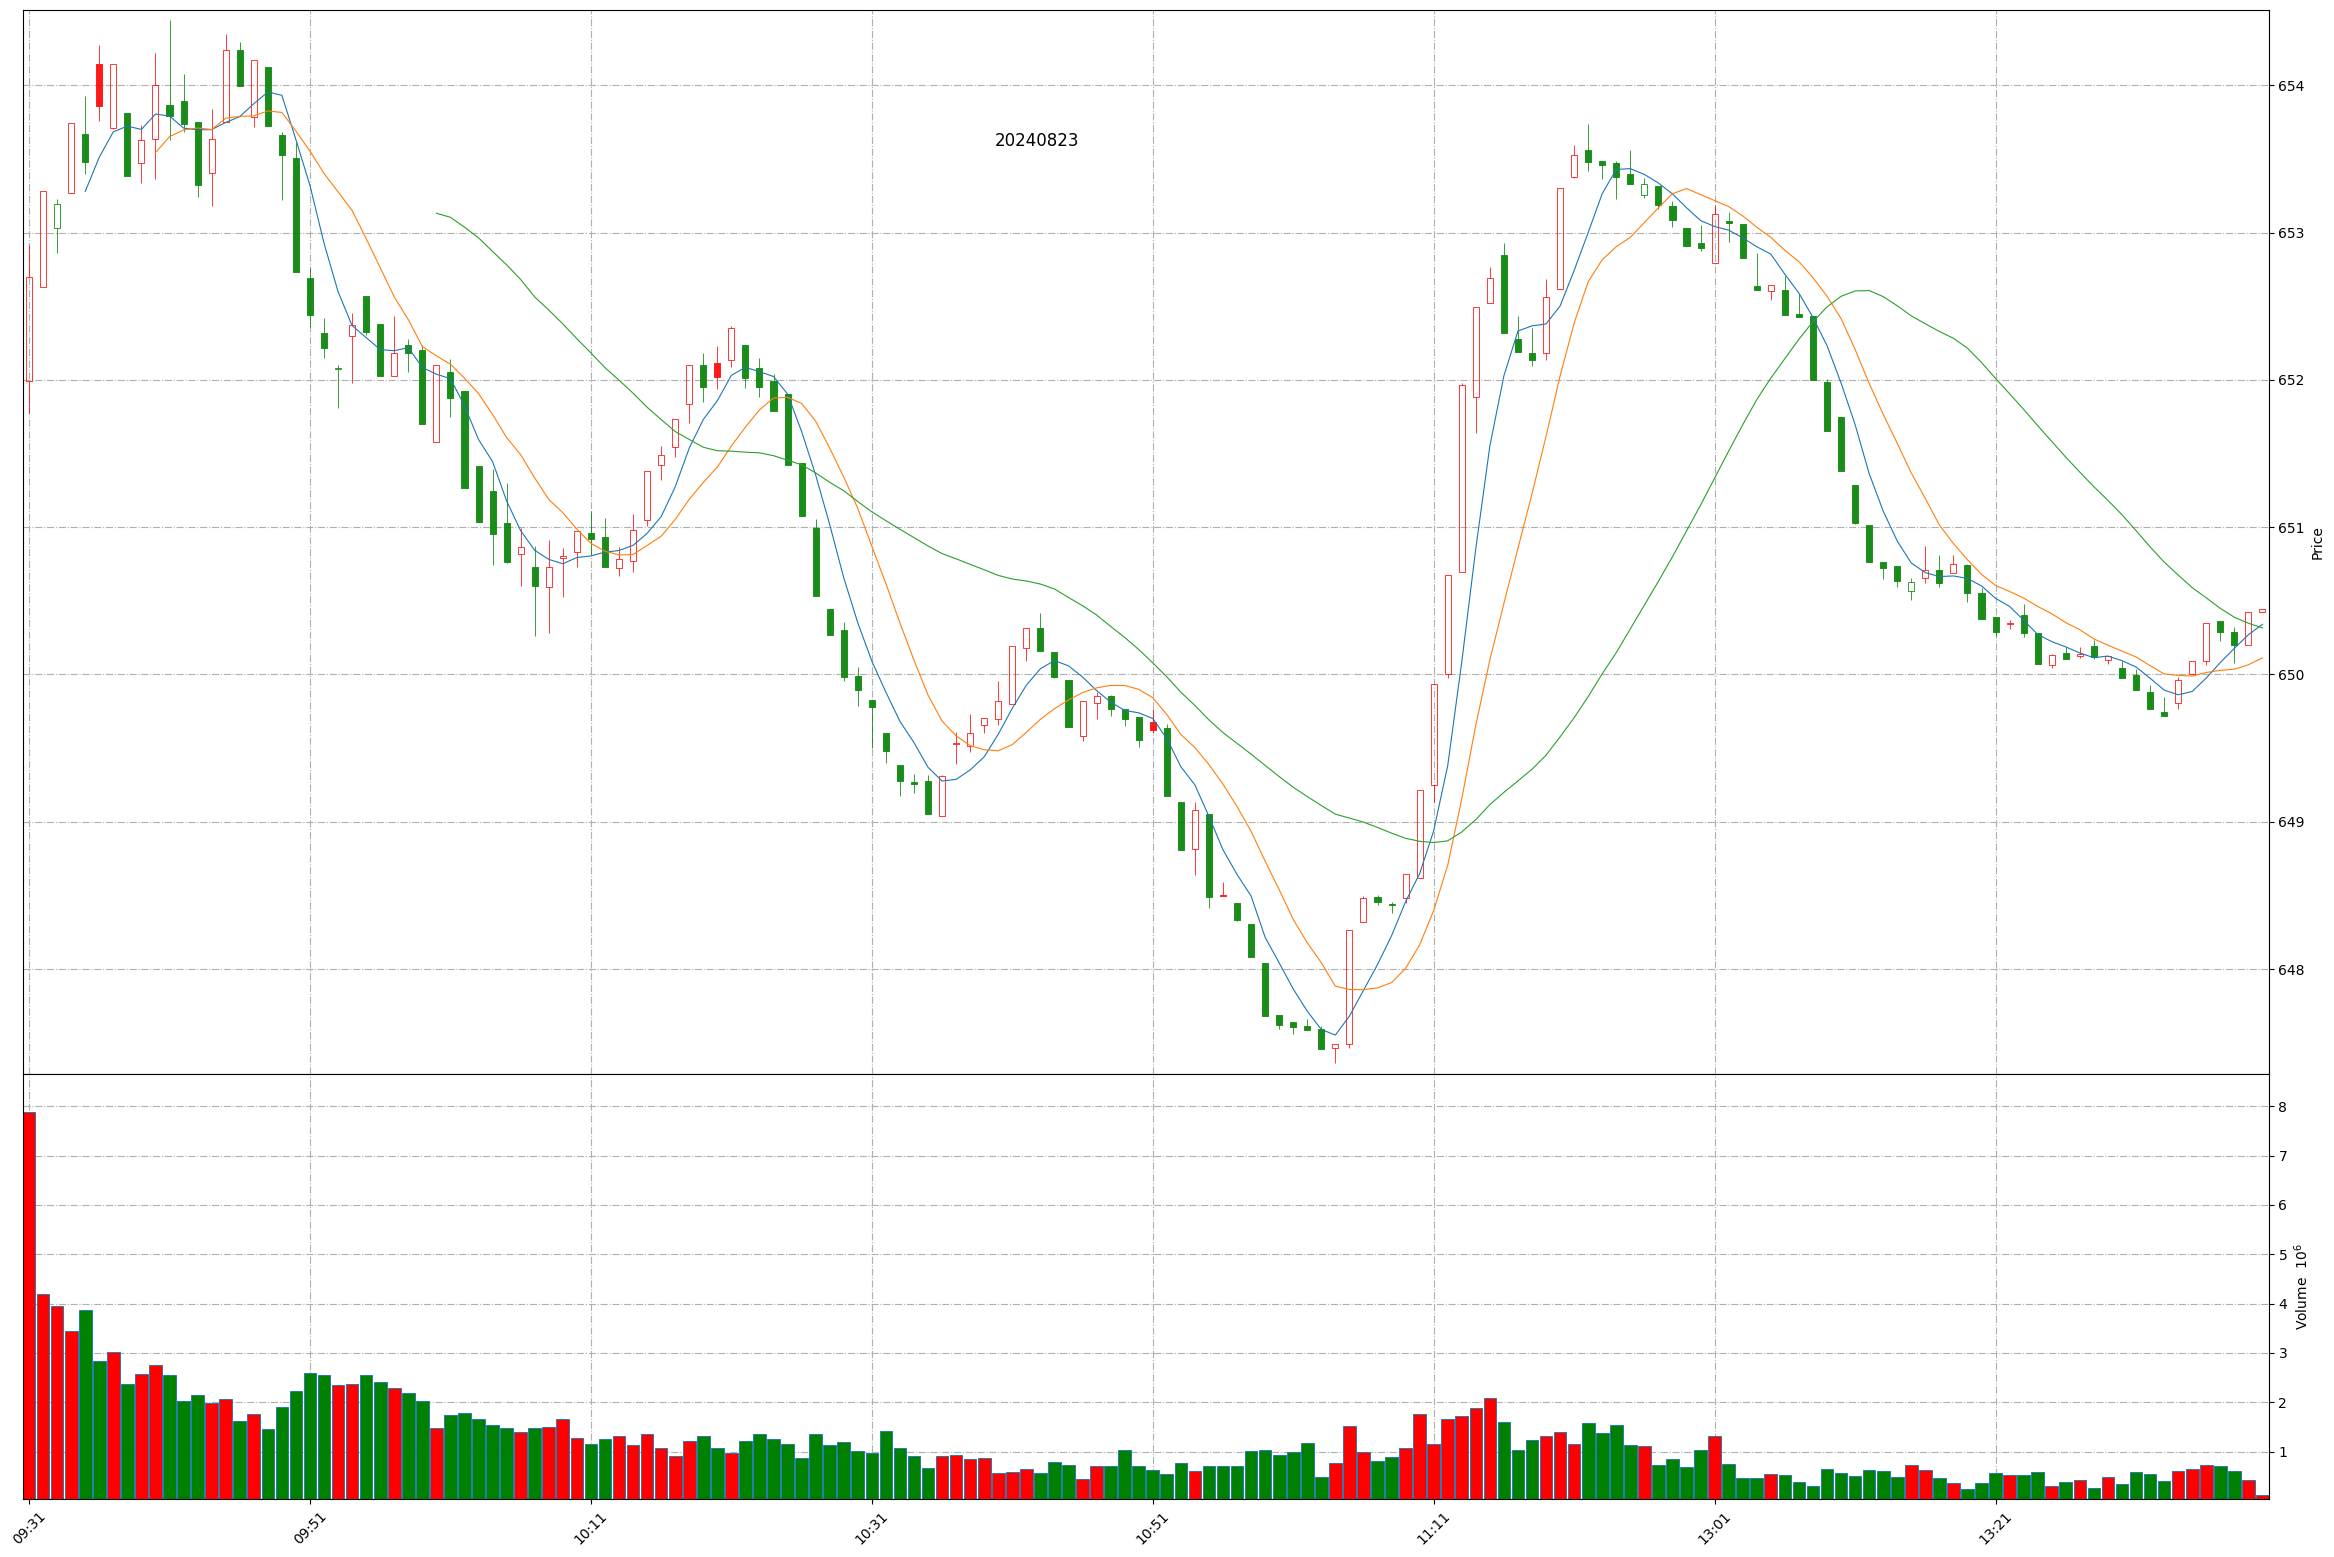
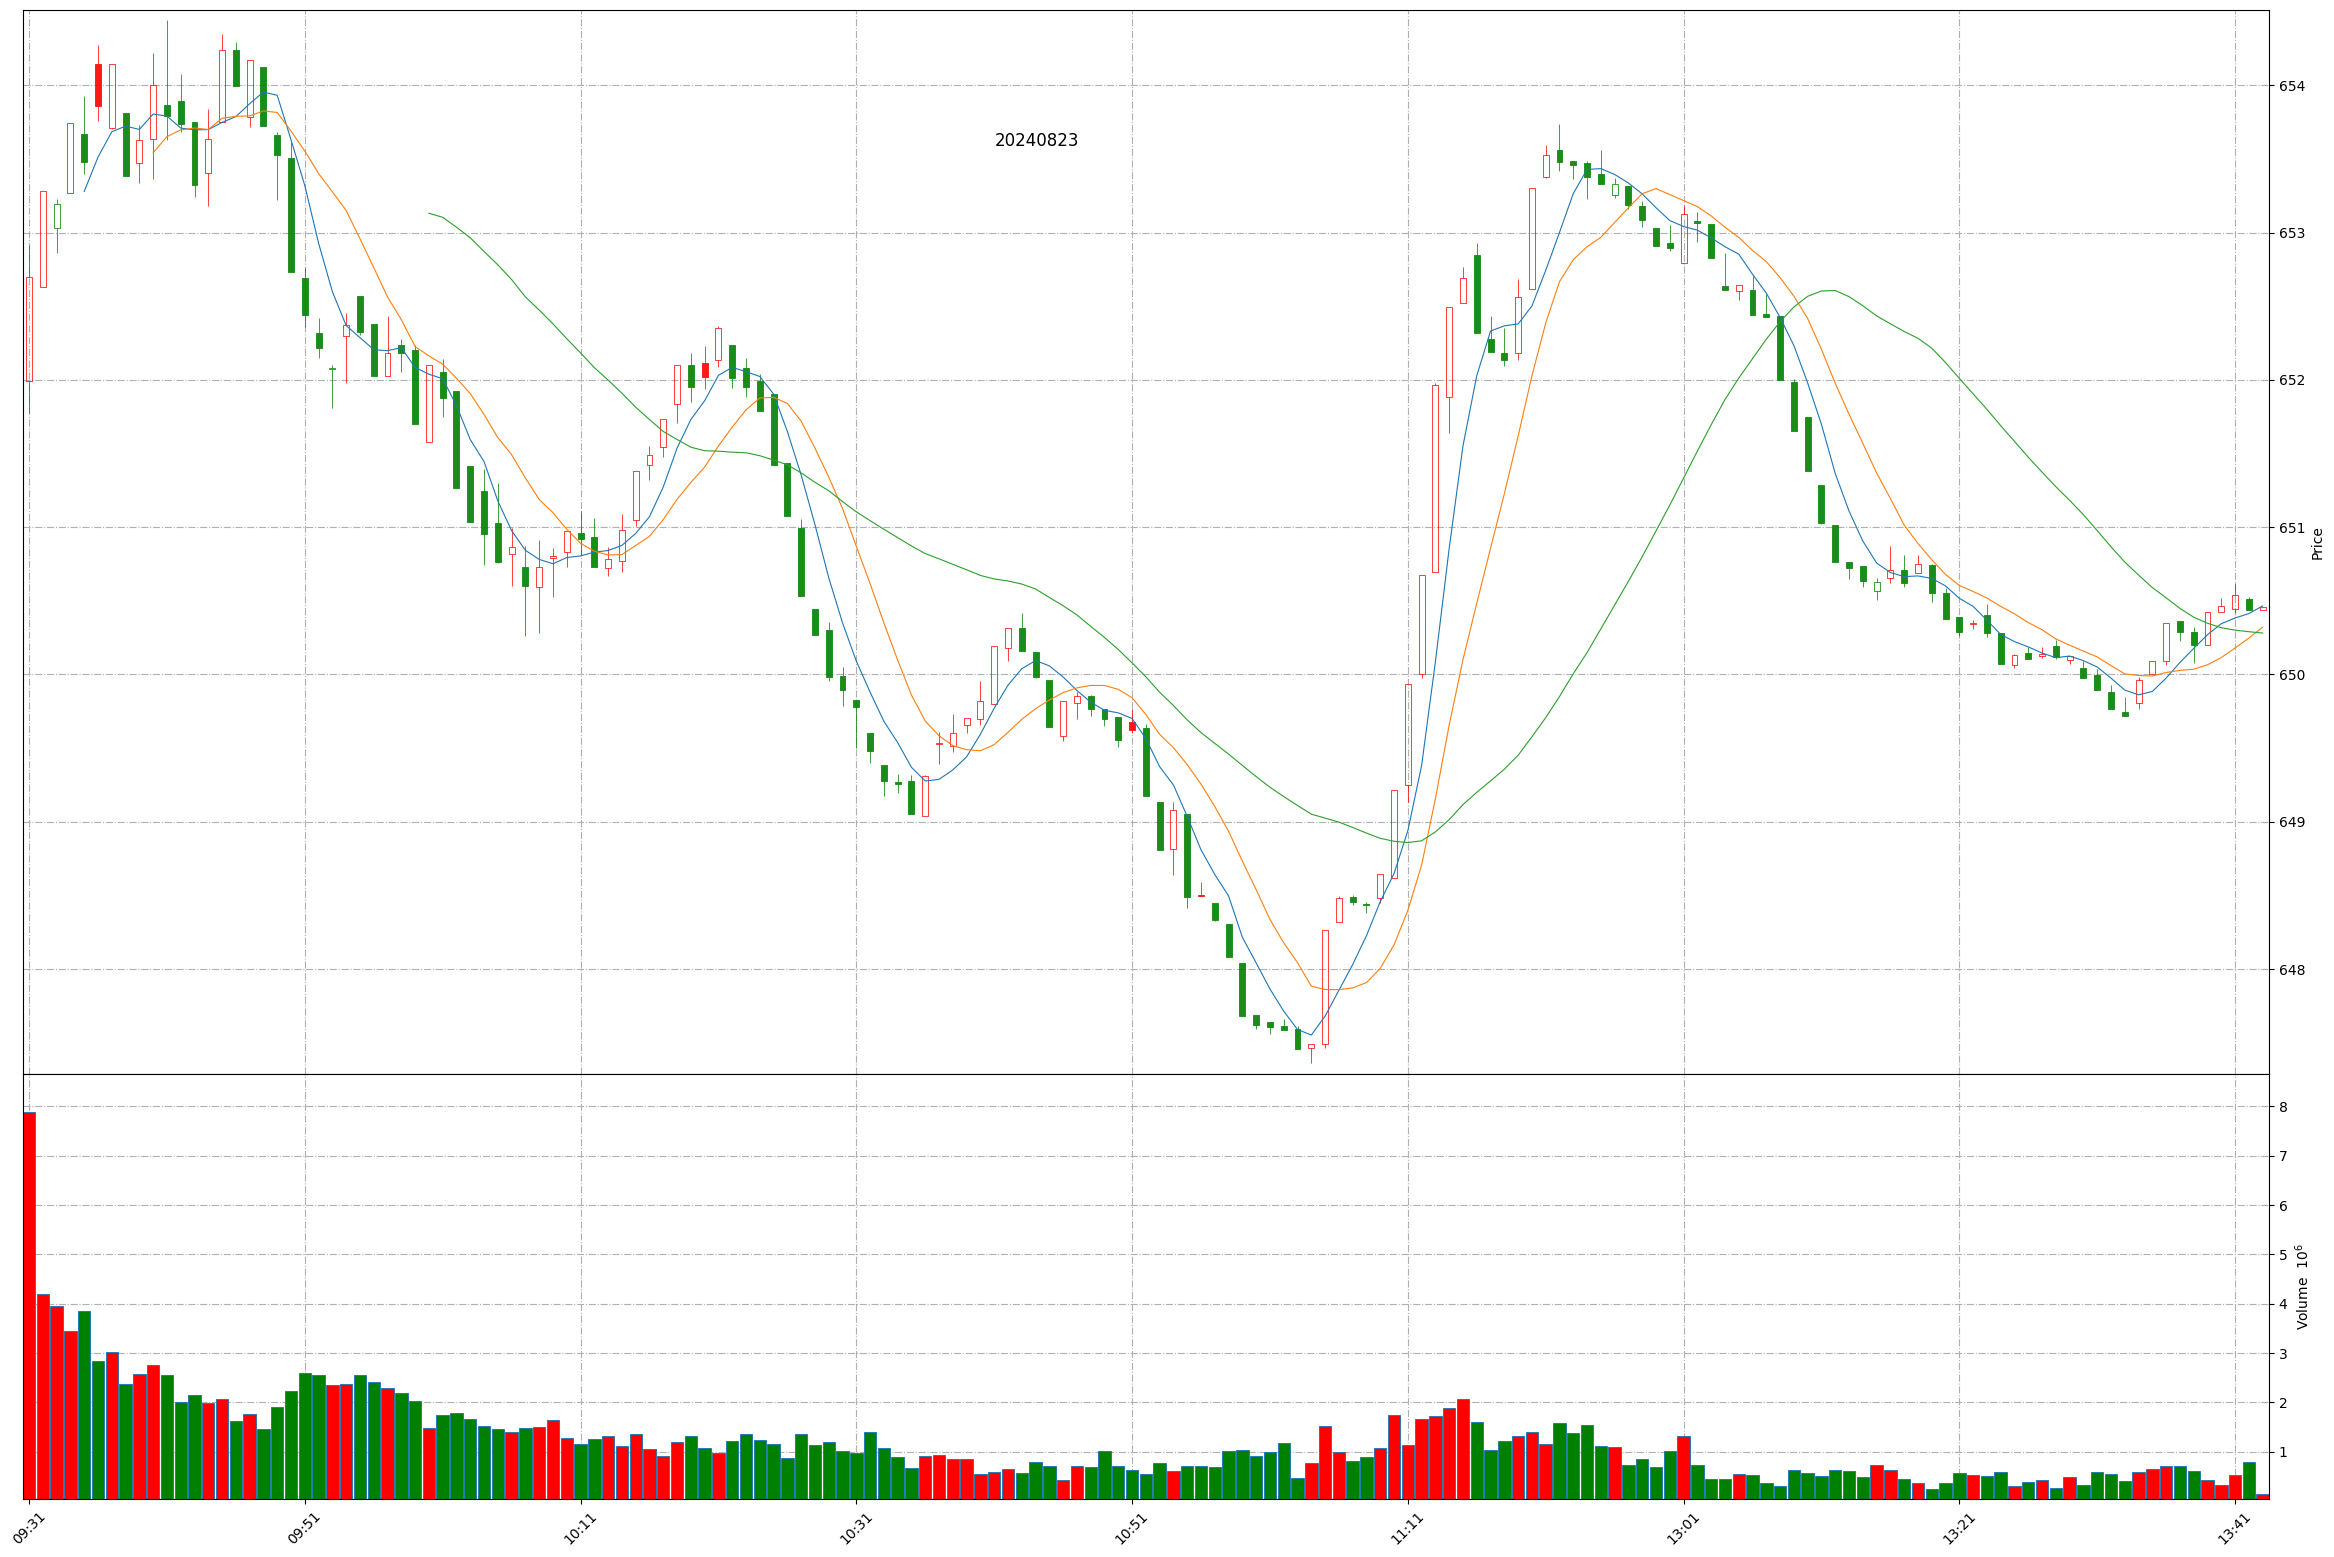
Github action update at 2024-08-23 13:42:28.

diff --git a/README.md b/README.md
@@ -1,11 +1,11 @@
 
 # Daily-A-share-market-quotes 每日 A 股指数（5min 更新）- 20240823
 
-### 上证指数 20240823 13:39
+### 上证指数 20240823 13:42
 ![](./fig/2024/8/20240823-sh000001.png)
 
-### 深证成指 20240823 13:39
+### 深证成指 20240823 13:42
 ![](./fig/2024/8/20240823-sz399001.png)
 
-### 北证50 20240823 13:39
+### 北证50 20240823 13:42
 ![](./fig/2024/8/20240823-bj899050.png)
